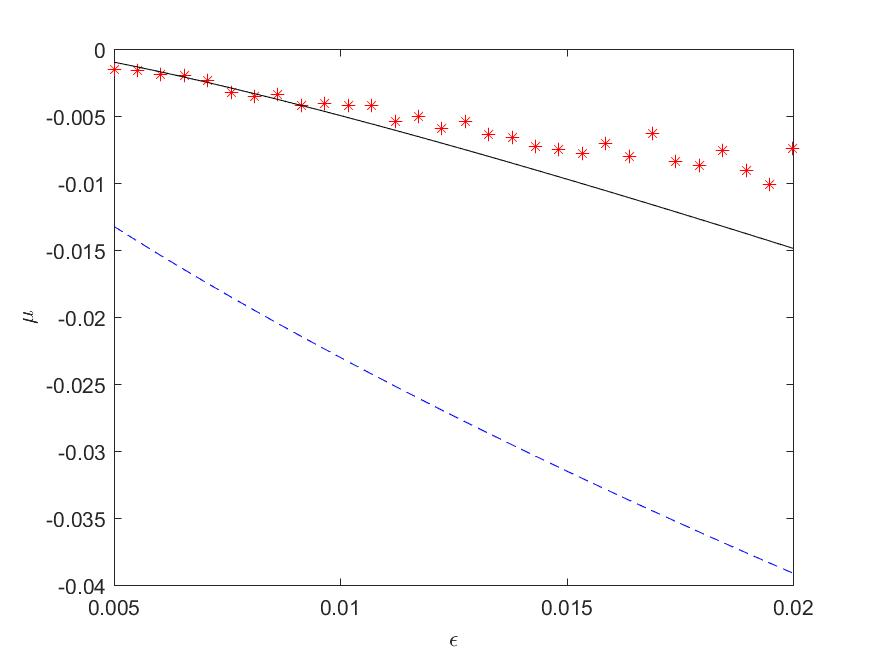
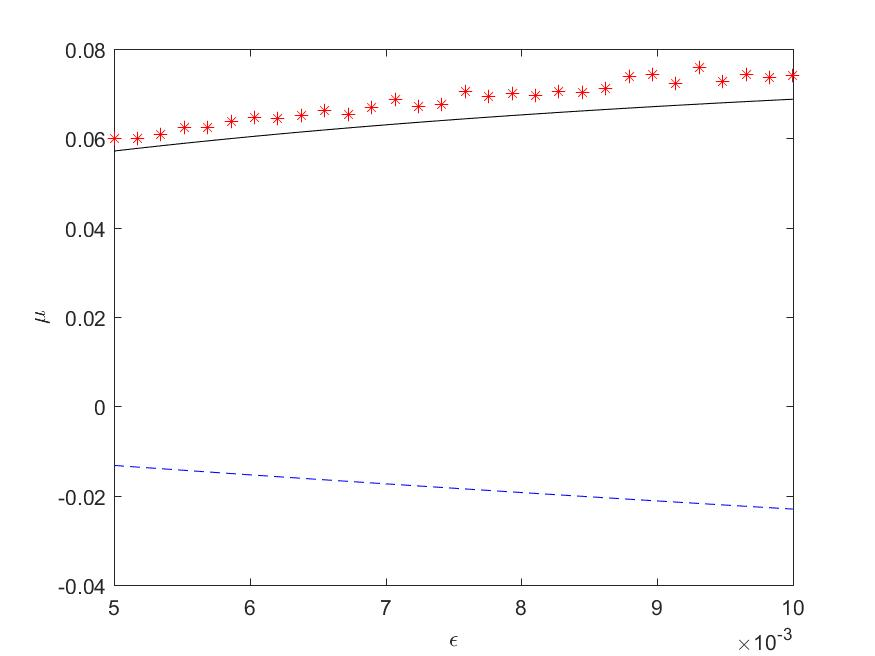
Added twoD oscillatory

diff --git a/In Progress/twoD_osc.m b/In Progress/twoD_osc.m
@@ -1,0 +1,144 @@
+%This script produces:
+%i) A plot containing a prediction on tipping for the 2-D Stommel model    
+% along with the ramped numerical solution.
+%ii) A plot comparing the actual tipping solution vs the asymptotic
+%solution for different choices of epsilon.
+
+% Load function folder
+addpath('C:\Users\codyg\Desktop\MSc_Thesis\Cody\trunk\Complete\Functions')
+
+criteria = .2;
+
+%%%%%%%%%%%%%%%%%%%%%%%%%%%%%%%%%Code Begin%%%%%%%%%%%%%%%%%%%%%%%%%%%%
+
+%Start on NS stable branch
+%Works for n3<1
+%In progress for making work for n3>1
+
+%Parameters
+n=400;
+eta1=4;eta3=.375;
+A=1; B=5; Omega=40;
+h=min(.01,2*pi/(10*Omega));
+
+%Fixed parameter system
+start=eta1*eta3-.5;stop=eta1*eta3+1;
+eta2=fliplr(linspace(start,stop,n));
+vOscTimeSeries=zeros(1,length(eta2));
+tOscTimeSeries=vOscTimeSeries;
+
+%Create equilibrium vector
+for i=1:length(eta2)
+    %Non-dim Stommel Equations    
+    vDEosc=@(t,V,T)((eta1-eta2(i))-V*abs(V)-T+eta3*(T-V)+A*sin(Omega*t));
+    tDEosc=@(t,V,T)(eta1-T*(1+abs(V))+B*sin(Omega*t));
+    
+    vInit=-eta2(i)/eta1+eta3;
+    tInit=eta1/(1-vInit);
+    
+    
+    %Solve equations for long term equilibrium, step size h
+    [~,Vosc,Tosc] = RK2sys(vDEosc,tDEosc,vInit,tInit,0,100,h);
+    
+    %Keep steady state
+    vOscTimeSeries(i) = Vosc(floor(100/h)-n+i);
+    tOscTimeSeries(i) = Tosc(floor(100/h)-n+i);
+end
+
+%-------------------------------------------------
+%Osc system 
+
+mosc = 2*eta1*(1-eta3)/(pi*abs(A))-pi*abs(A)*eta3^2/(4*eta1*(1-eta3));
+muosc = mosc/Omega+eta1*eta3;
+
+bifactual = eta2(find(vOscTimeSeries>criteria,1));
+
+Min = min(vOscTimeSeries);
+Max = max(vOscTimeSeries);
+
+yvec = linspace(Min,Max,300);
+bifpredvec = muosc* ones(1,300);
+bifactualvec = bifactual*ones(1,300);
+
+error = abs(bifactual-muosc);
+
+
+%--------------------Plot the dynamics plot--------------------------
+
+figure(1)
+%plot(eta2,vSteady,'r')
+z=@(eta2,V)(eta1-eta2)-V*abs(V)-eta1/(1+abs(V))+eta3*(eta1/(1+abs(V))-V);
+h1=ezplot(z,[eta1*eta3-1,eta1*eta3+1,-.5,1.5]);
+set(h1,'linestyle','-.','color','k')
+hold on
+z=@(eta2,V)(eta1-eta2)-V*abs(V)-eta1/(1+abs(V))+eta3*(eta1/(1+abs(V))-V);
+h2=ezplot(z,[eta1*eta3-1,eta1*eta3+1,-.5,0]);
+set(h2,'color','r','linewidth',2)
+hold on
+z=@(eta2,V)(eta1-eta2)-V*abs(V)-eta1/(1+abs(V))+eta3*(eta1/(1+abs(V))-V);
+h3=ezplot(z,[eta1*eta3-1,eta1*eta3+1,.426651,1.5]);
+set(h3,'color','r','linewidth',2)
+
+xlabel('\eta_2')
+ylabel('V')
+title('')
+hold on
+plot(eta2,vOscTimeSeries,'k--')
+plot(bifpredvec,yvec,'b')
+plot(bifactualvec,yvec,'k--')
+%plot(realtipvec,tipy,'b')
+%plot(tipx1,tipy,'b-.')
+xlim([start,stop])
+%title(['V Equilibria for \epsilon=' num2str(eps)])
+xlabel('\eta_2')
+ylabel('V')
+%legend('Numerical w/ Fixed \eta_2','Ramped System','Tipping Criteria','Tipping Point: \lambda_1')
+
+
+fprintf('The error is= %f\n',error)
+
+%(2) Comparison plot
+invOmegavec=linspace(.001,.3,20);
+bifpredvec=zeros(1,length(invOmegavec));
+bifactualvec=zeros(1,length(invOmegavec));
+M=length(invOmegavec);
+ 
+for i=1:length(invOmegavec)
+    invOmega=invOmegavec(i);
+    %Make sure to have a time step that will capture highly oscillatory
+    %pieces
+    h=min(.01,2*pi*invOmega/(10));
+    start=eta1*eta3-.5;stop=eta1*eta3+1;
+    %Have a parameter grid fine enough to see the different bifurcation
+    %locations for highly oscillatory cases
+    eta2=fliplr(linspace(stop,start,200));
+    N=length(eta2);
+    Vfinal=zeros(1,N);
+    Tfinal=zeros(1,N);
+     
+    %Numerical Solution
+    for j=1:N
+        vDEosc=@(t,V,T)((eta1-eta2(i))-V*abs(V)-T+eta3*(T-V)+A*sin(Omega*t));
+        tDEosc=@(t,V,T)(eta1-T*(1+abs(V))+B*sin(Omega*t));
+    
+        vInit=-eta2(i)/eta1+eta3;
+        tInit=eta1/(1-vInit);
+    
+    
+        %Solve equations for long term equilibrium, step size h
+        [~,Vosc,Tosc] = RK2sys(vDEosc,tDEosc,vInit,tInit,0,100,h);
+    
+         Vfinal(j)=Vosc(end);
+         Tfinal(j)=Tosc(end);
+    end
+ 
+    mosc = 2*eta1*(1-eta3)/(pi*abs(A))-pi*abs(A)*eta3^2/(4*eta1*(1-eta3));
+    bifpredvec(i) = mosc*invOmega+eta1*eta3;
+    bifactualvec(i)=eta2(find(Vfinal>criteria,1));
+end
+ 
+figure(2)
+    plot(invOmegavec,bifpredvec,'k','linewidth',2);
+    hold on
+    plot(invOmegavec,bifactualvec,'r*');
+    xlabel('\Omega^{-1}');ylabel('\mu-\mu_{ns}')

diff --git a/Complete/OneD_matlab/Slow_Osc/lambda_compare.m b/Complete/OneD_matlab/Slow_Osc/lambda_compare.m
@@ -10,12 +10,12 @@ criteria=.2;
 A = 1;
 
 % This will compare lambda over a single choice in epsilon
-lambdavec = linspace(.5,1.5,n);
+lambdavec = linspace(1/6,1.3,n);
 
 truetipvec = zeros(1,n);
 estimatedtipvec = zeros(1,n);
 slowtipvec = zeros(1,n);
-eps = .01;
+eps = .005;
 
 for i = 1:length(lambdavec)
 %Initial values and set up
@@ -46,19 +46,20 @@ slowtipvec(i) = eps*log(eps)/2;
 end
 
 %Check to see minimum lambda holds
-minlambda = 1+3/2*log(2.33811*(pi/2)^(4/3)/(6*A^(2/3)))/log(eps);
+%minlambda = 1+3/2*log(2.33811*(pi/2)^(4/3)/(6*A^(2/3)))/log(eps);
 miny = min(truetipvec)-eps;
 maxy = max(truetipvec);
-yvec = linspace(miny,maxy,50);
-xvec = minlambda*ones(1,50);
+%yvec = linspace(miny,maxy,50);
+%xvec = minlambda*ones(1,50);
 
 figure(1)
 plot(lambdavec, truetipvec, 'r*')
 hold on
 plot(lambdavec, estimatedtipvec, 'k')
 plot(lambdavec, slowtipvec, 'b--')
-plot(xvec,yvec,'r')
+%plot(xvec,yvec,'r')
 xlabel('\lambda'); ylabel('\mu');
+xlim([1/6 1.3])
 
 fileID = fopen('slowosc_lambdacomp_information.txt','w');
 fprintf(fileID,'epsilon=%f\n',lambda);
@@ -68,13 +69,13 @@ fclose(fileID);
 print('-f1','slowosc_lambdacomp','-djpeg')
 
 % This will compare epsilon over a single choice in lambda
-epsvec = linspace(.005,.02,n);
+epsvec = linspace(.005,.01,n);
 truetipvec = zeros(1,n);
 estimatedtipvec = zeros(1,n);
 slowtipvec = zeros(1,n);
 
 %Set up for an example of each case
-lambdavec = [.8, 1.3];
+lambdavec = [.5, 1.3];
 delete('slowosc_epscomp_information.txt')
 for k=2:3
     lambda = lambdavec(k-1);

diff --git a/Complete/OneD_matlab/Slow_Osc/oneD_slow_osc.m b/Complete/OneD_matlab/Slow_Osc/oneD_slow_osc.m
@@ -4,8 +4,8 @@
 addpath('C:\Users\codyg\Desktop\MSc_Thesis\Cody\trunk\Complete\Functions')
 
 %Initial values and set up
-eps = .05;
-lambda = .8;
+eps = .001;
+lambda = 1/3;
 Omega = eps^(-lambda);
 A = 1;
 criteria=.2;
